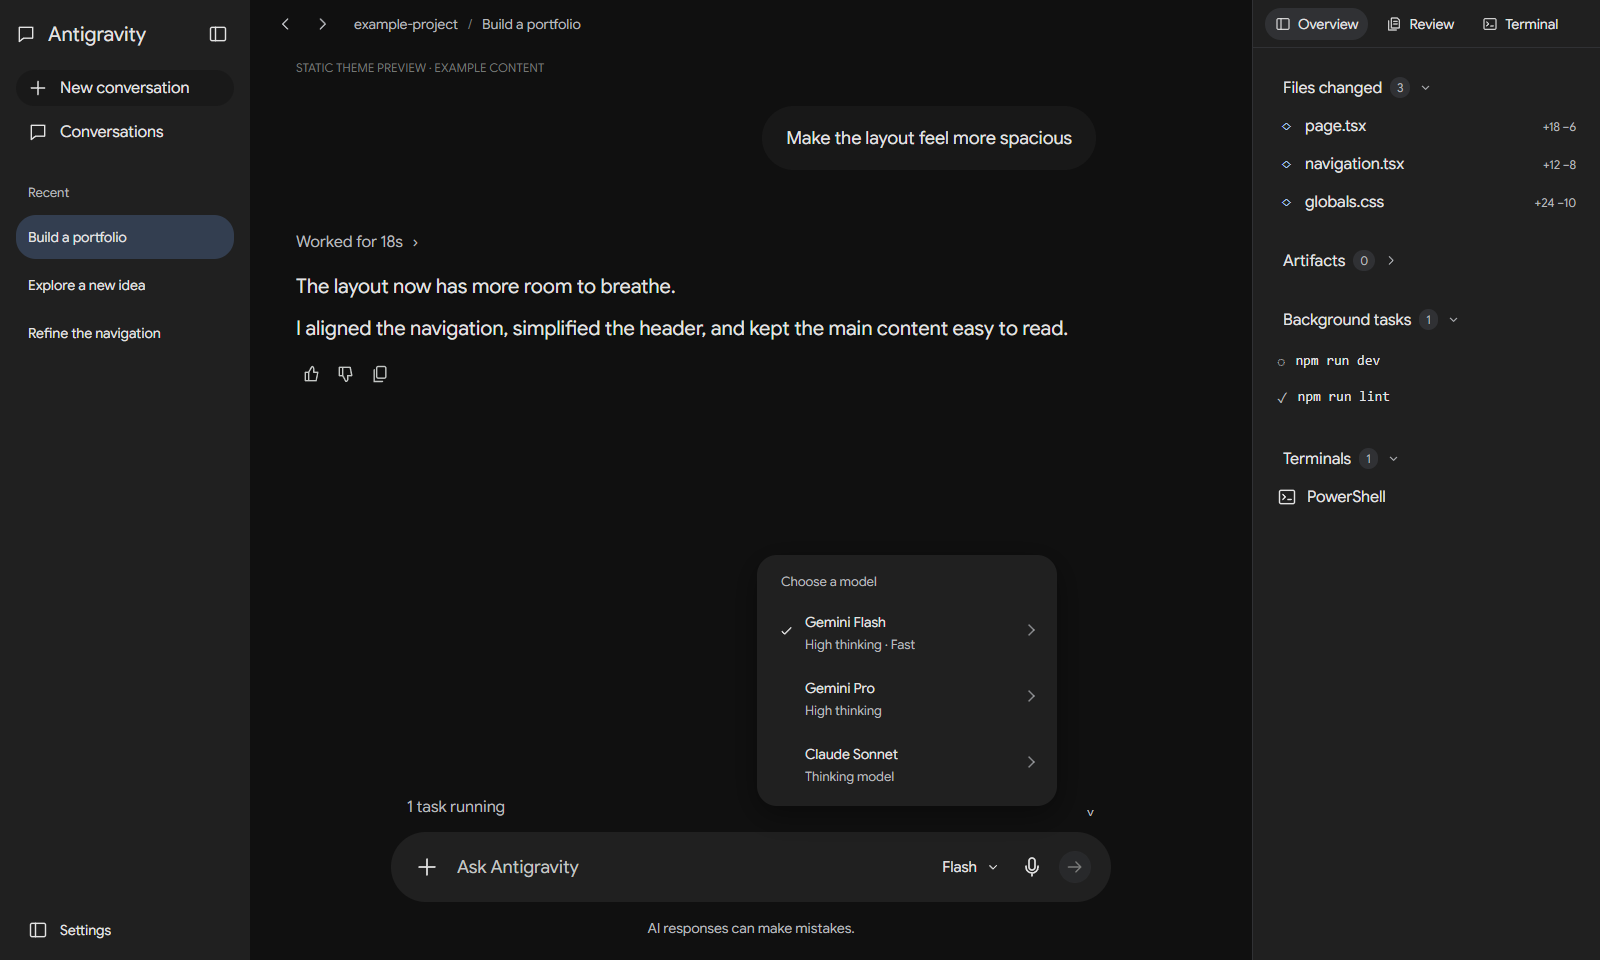
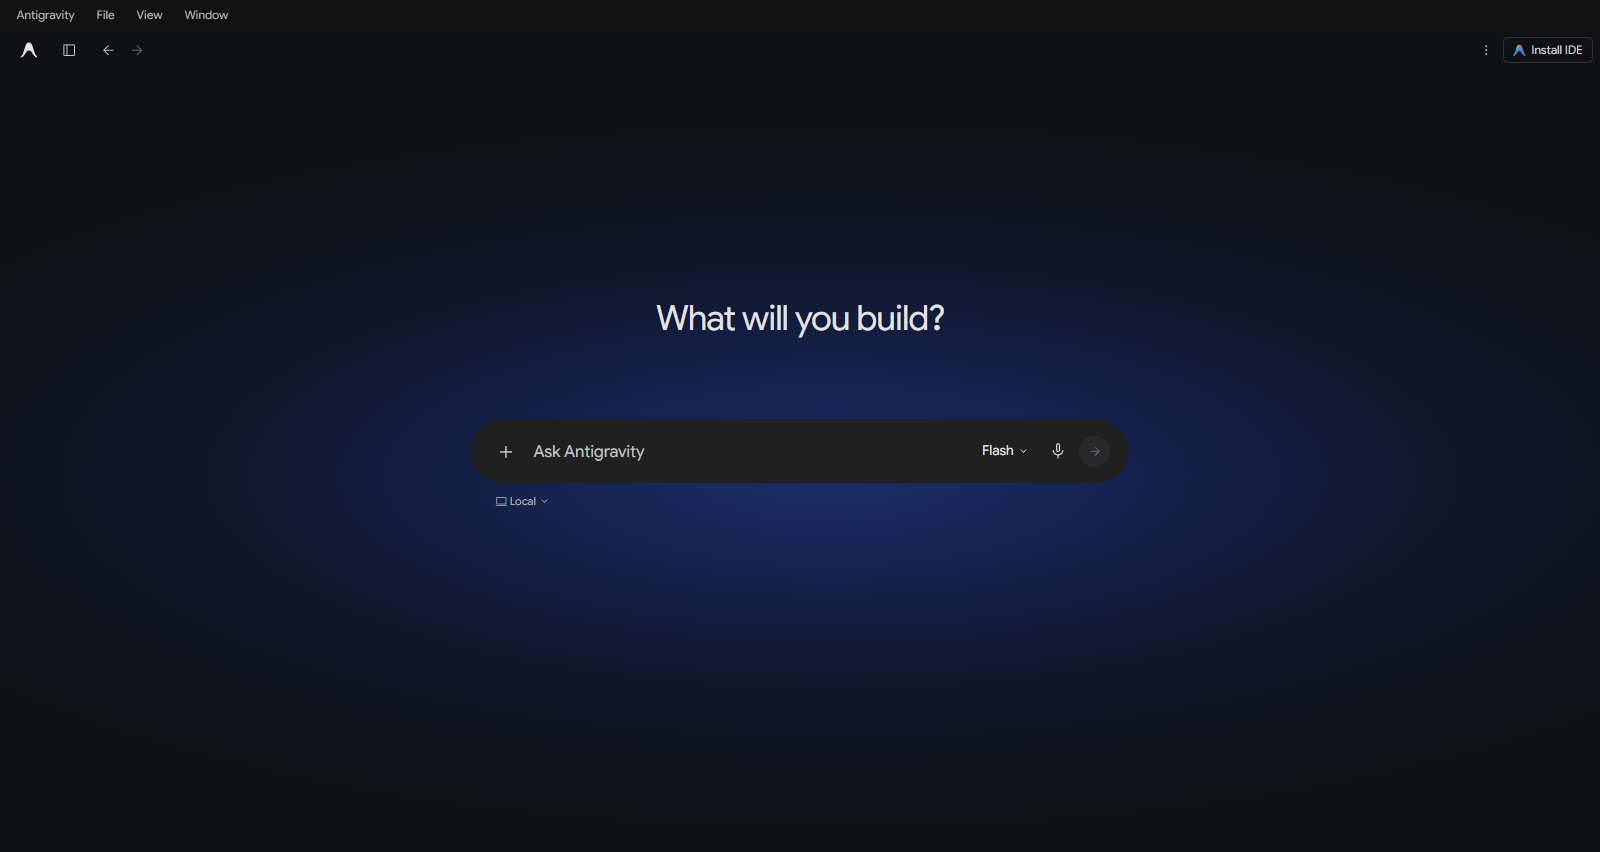
Replace mockup with screenshots of the actual Antigravity app

diff --git a/README.md b/README.md
@@ -6,9 +6,13 @@ A Gemini-inspired dark theme for Antigravity: a rounded composer, compact model 
 
 This is an **unofficial local theme installer** that modifies the app's Electron preload. It is not a Marketplace extension. It changes appearance and keeps Antigravity's model selection, reasoning controls, terminals, file review, and other native actions. Google and Antigravity do not sponsor this project.
 
-![Static preview of the theme with example content](docs/preview.png)
+![Actual Antigravity app with the theme applied](docs/preview.png)
 
-The preview uses example content and the theme's CSS. It is a static illustration, not a running Antigravity session.
+Actual screenshots of the themed Antigravity 2.19.1 app. The sidebar is collapsed and the project selector is hidden for privacy.
+
+![Native Antigravity model picker with the theme applied](docs/model-picker.png)
+
+The model picker is Antigravity's real menu. Available models depend on your account and the app's current offerings.
 
 ## Install
 

diff --git a/docs/design.md b/docs/design.md
@@ -23,4 +23,4 @@ The compact model label retains the full native accessible label and tooltip. Th
 
 The theme annotates existing DOM nodes, adds a stylesheet, a greeting, a brand label, model descriptions, and the small AI notice. A newly rendered running-task panel starts collapsed using its native disclosure button. It does not alter requests, authentication, files, model routing, or terminal execution.
 
-The preview HTML is a separate static example. It contains no user history or source code and does not implement the app's controls.
+The README images are captures of the actual themed Antigravity 2.19.1 app, including its native model picker. The navigation sidebar is collapsed and the project selector is hidden during capture to protect private project details. No sample conversations or replacement controls are rendered for the screenshots.
